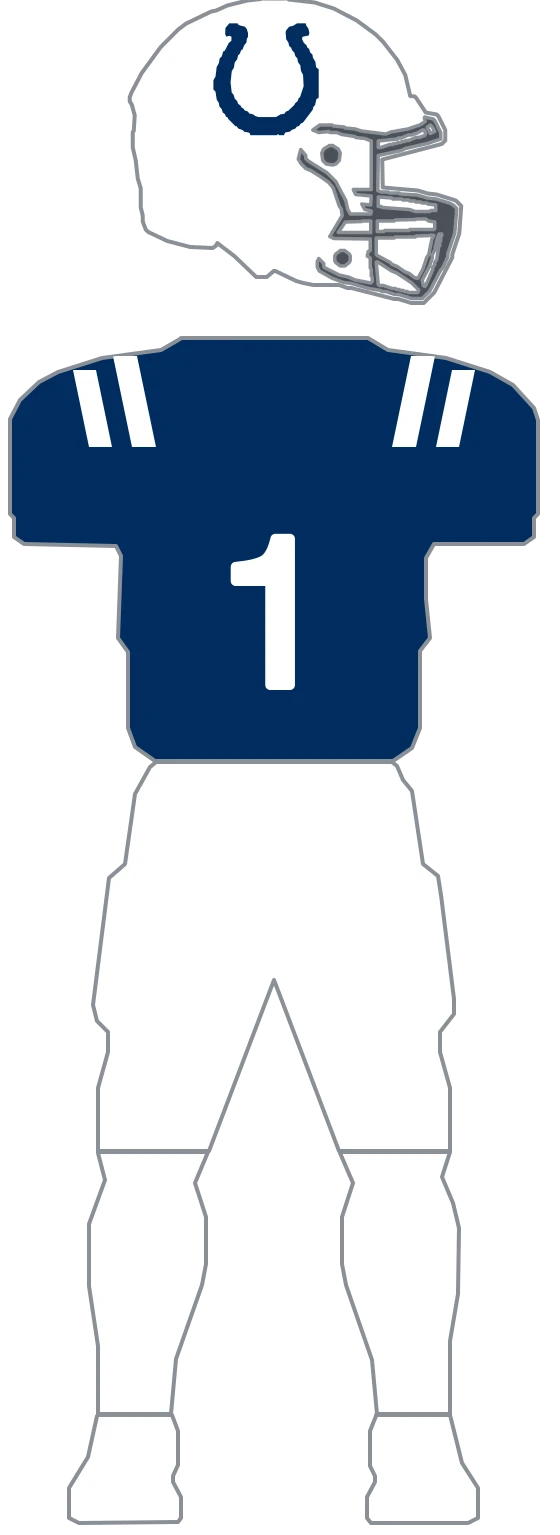
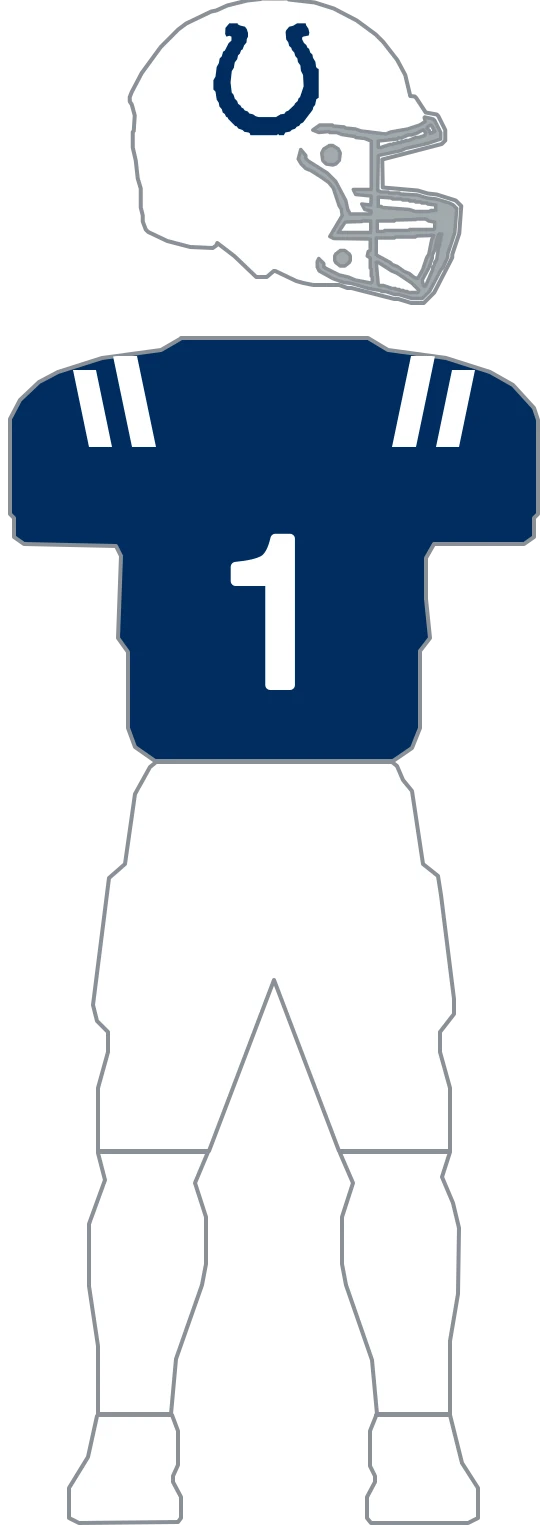
feat(uniforms): migrate Colts to composable parts and set its speedway-grey facemask
Both Indy kits wear the same white shell (with the navy horseshoe decal) and
the same white pants; only the jersey differs — a navy body at home vs a white
body away, with the two canted shoulder bars per sleeve and the numerals
matching the body's contrast. The flat form put the shared shell/pants in
`defaults` and reached the same painted result through inverse tokens on the
horseshoe (primary at home, secondary away). Parts make each kit a
combination: 1 helmet (H1 white shell + navy horseshoe), 2 jerseys (J1 navy,
J2 white), 1 pants (P1 white), matching the measured target.

The migration's parity gate proved all 6 colts rasters (2 kits x 2 variants)
byte-identical against the flat definition, then the flat definition and its
builder helpers were deleted and the team removed from MIGRATED, per the
one-time-proof lifecycle (depth#660).

Facemask follows the parts migration per phase order: the 2020 helmet update
wears a "light gray facemask" (named sources; the white shell + light cage is
low-contrast in the GUD composite, which reads the bars at ~#868686). Set to
the team's own speedway grey #A2AAAD from the curated home row — closer to the
real cage than the shared neutral #4b5158 it replaces. Only the two -full
rasters move, and the change is confined to the helmet region (verified
pixel-diffed).

diff --git a/lib/uniforms/teams/colts.ts b/lib/uniforms/teams/colts.ts
@@ -1,15 +1,7 @@
-import type { ColorRef, TeamUniformDefinition, UniformLayer, UniformSurface } from './types';
-
-// Indianapolis' two archived kits, redrawn from the Gridiron Uniform Database 2025 composite in
-// nfl-uniform-refs/colts (home is that sheet's row-1 figure 3, away its row-2 figure 1; the black
-// alternate and the preseason kit in that composite are not in depth's archive). Shoulder paths
-// use the outer 588-wide mannequin space; the helmet decal stays in raw helmet coordinates
-// (x:139-802, y:65-674). Right paths mirror the left across the centerline x=294 (588 - x).
-//
-// The construction is spare: a bare white shell carrying only the horseshoe, two canted shoulder
-// bars per sleeve, and plain numerals. No helmet stripe, no collar trim, and no pant stripe — the
-// reference's white pants are unbroken from hip to sock — so both kits strip most of the generic
-// model rather than recoloring it.
+// Indianapolis' construction geometry — the horseshoe decal and the shoulder-bar constants only.
+// The composable parts definition that consumes them lives in ./colts.parts.ts; the former flat
+// COLTS_UNIFORMS was deleted in the migration that proved parts render byte-identically (see
+// parts-parity.test.ts for the one-time gate).
 
 // White is a literal on both kits. The home palette is navy over speedway grey with accent ===
 // secondary (ESPN supplies only two colors), so no token resolves to the shell, the pants, the
@@ -34,79 +26,3 @@ export const COLTS_SHOULDER_BAR_INNER_LEFT = 'M133,401 L157,401 L176,492 L152,49
 export const COLTS_SHOULDER_BAR_INNER_RIGHT = 'M455,401 L431,401 L412,492 L436,492 Z';
 export const COLTS_SHOULDER_BAR_OUTER_LEFT = 'M93,415 L116,415 L132,492 L109,492 Z';
 export const COLTS_SHOULDER_BAR_OUTER_RIGHT = 'M495,415 L472,415 L456,492 L479,492 Z';
-
-const GENERIC_STRIPPED = [
-  'generic-helmet-stripe',
-  'generic-sleeve-yoke-left',
-  'generic-sleeve-yoke-right',
-  'generic-sleeve-stripe-left',
-  'generic-sleeve-stripe-right',
-  'generic-collar',
-  'generic-pants-stripe-left',
-  'generic-pants-stripe-right',
-];
-
-function shoulderBars(fill: ColorRef): UniformLayer[] {
-  const bars: { id: string; surface: UniformSurface; d: string }[] = [
-    {
-      id: 'colts-shoulder-bar-inner-left',
-      surface: 'sleeve-left',
-      d: COLTS_SHOULDER_BAR_INNER_LEFT,
-    },
-    {
-      id: 'colts-shoulder-bar-inner-right',
-      surface: 'sleeve-right',
-      d: COLTS_SHOULDER_BAR_INNER_RIGHT,
-    },
-    {
-      id: 'colts-shoulder-bar-outer-left',
-      surface: 'sleeve-left',
-      d: COLTS_SHOULDER_BAR_OUTER_LEFT,
-    },
-    {
-      id: 'colts-shoulder-bar-outer-right',
-      surface: 'sleeve-right',
-      d: COLTS_SHOULDER_BAR_OUTER_RIGHT,
-    },
-  ];
-  return bars.map((bar): UniformLayer => ({ ...bar, clip: true, kind: 'fill', fill }));
-}
-
-function horseshoe(fill: ColorRef): UniformLayer[] {
-  return [
-    {
-      id: 'colts-helmet-horseshoe',
-      surface: 'helmet',
-      d: COLTS_DECAL_HORSESHOE_PATH,
-      clip: true,
-      kind: 'fill',
-      fill,
-      fillRule: 'evenodd',
-    },
-  ];
-}
-
-export const COLTS_UNIFORMS: TeamUniformDefinition = {
-  teamId: 'colts',
-  // Both kits share the white shell and white pants; only the body color and which token carries
-  // navy differ, so the shell/pants live in defaults rather than being restated per kit.
-  defaults: {
-    helmetColor: COLTS_WHITE,
-    pantsColor: COLTS_WHITE,
-    removeLayerIds: GENERIC_STRIPPED,
-  },
-  kits: {
-    // Royal body: the palette's own primary is the navy, so the horseshoe resolves from `primary`
-    // and the bars and numerals take the white literal.
-    home: {
-      layers: [...horseshoe('primary'), ...shoulderBars(COLTS_WHITE)],
-      number: { fill: COLTS_WHITE, outline: COLTS_WHITE, outlineWidth: 10 },
-    },
-    // White body: the away palette moves white into primary and navy into secondary, so the same
-    // painted result needs the inverse token on every navy element.
-    away: {
-      layers: [...horseshoe('secondary'), ...shoulderBars('secondary')],
-      number: { fill: 'secondary', outline: 'secondary', outlineWidth: 10 },
-    },
-  },
-};

diff --git a/lib/uniforms/teams/colts.parts.ts b/lib/uniforms/teams/colts.parts.ts
@@ -1,0 +1,103 @@
+// Indianapolis authored as composable parts. Geometry is imported unchanged from colts.ts — this
+// file only restates WHICH parts each kit combines, and names every color from the team palette
+// instead of the kit row's shifting primary/secondary/accent.
+//
+// What the flat definition was hiding: both Colts kits wear the SAME white shell with the navy
+// horseshoe decal, and the SAME white pants. The flat form put the shell and pants in `defaults`
+// and reached the same painted result through inverse tokens on home (horseshoe = primary) vs
+// away (horseshoe = secondary). Only the jersey actually differs: a navy body at home vs a white
+// body away, with the four shoulder bars (2 per sleeve) and the numerals matching the body's
+// contrast.
+
+import {
+  COLTS_DECAL_HORSESHOE_PATH,
+  COLTS_SHOULDER_BAR_INNER_LEFT,
+  COLTS_SHOULDER_BAR_INNER_RIGHT,
+  COLTS_SHOULDER_BAR_OUTER_LEFT,
+  COLTS_SHOULDER_BAR_OUTER_RIGHT,
+} from './colts';
+import { compileParts, type PartLayer, type TeamPartsDefinition, type UniformPart } from './parts';
+import type { UniformSurface } from './types';
+
+const fill = (id: string, surface: UniformSurface, d: string, color: string): PartLayer => ({
+  id,
+  surface,
+  d,
+  clip: true,
+  kind: 'fill',
+  fill: color,
+});
+
+// Two canted bars per sleeve, mirrored. Same painting in both kits; only the color differs,
+// which the jersey part supplies.
+function shoulderBars(color: string): PartLayer[] {
+  return [
+    fill('colts-shoulder-bar-inner-left', 'sleeve-left', COLTS_SHOULDER_BAR_INNER_LEFT, color),
+    fill('colts-shoulder-bar-inner-right', 'sleeve-right', COLTS_SHOULDER_BAR_INNER_RIGHT, color),
+    fill('colts-shoulder-bar-outer-left', 'sleeve-left', COLTS_SHOULDER_BAR_OUTER_LEFT, color),
+    fill('colts-shoulder-bar-outer-right', 'sleeve-right', COLTS_SHOULDER_BAR_OUTER_RIGHT, color),
+  ];
+}
+
+// The white shell with the navy horseshoe decal — one object, shared by both kits. The horseshoe
+// is a closed band requiring evenodd so the tiny enclosed counter punches through.
+//
+// Speedway-grey cage. The 2020 helmet update carries a "light gray facemask" (Riddell/sports
+// sources; the white shell + light cage is low-contrast in the GUD composite, which reads the
+// bars at ~#868686 on both figures). #A2AAAD is the team's own speedway grey from the curated
+// home row — closer to the real light cage than the shared neutral #4b5158 it replaces.
+const HELMET_WHITE_HORSESHOE: UniformPart = {
+  base: 'white',
+  facemask: 'speedwayGrey',
+  layers: [
+    {
+      id: 'colts-helmet-horseshoe',
+      surface: 'helmet',
+      d: COLTS_DECAL_HORSESHOE_PATH,
+      clip: true,
+      kind: 'fill',
+      fill: 'navy',
+      fillRule: 'evenodd',
+    },
+  ],
+};
+
+// Home jersey: navy body, white shoulder bars, white numerals.
+const JERSEY_NAVY: UniformPart = {
+  base: 'navy',
+  layers: shoulderBars('white'),
+  number: { fill: 'white', outline: 'white', outlineWidth: 10 },
+};
+
+// Away jersey: white body, navy shoulder bars, navy numerals.
+const JERSEY_WHITE: UniformPart = {
+  base: 'white',
+  layers: shoulderBars('navy'),
+  number: { fill: 'navy', outline: 'navy', outlineWidth: 10 },
+};
+
+// Plain white pants, shared by both kits.
+const PANTS_WHITE: UniformPart = { base: 'white', layers: [] };
+
+export const COLTS_PARTS: TeamPartsDefinition = {
+  teamId: 'colts',
+  // Jersey hexes from the curated rows (teamcolorcodes): royal navy + speedway grey, the three
+  // colors the two rows already carry across their primary/secondary/accent slots.
+  palette: {
+    navy: '#002C5F',
+    white: '#FFFFFF',
+    speedwayGrey: '#A2AAAD',
+  },
+  helmets: { 'white-horseshoe': HELMET_WHITE_HORSESHOE },
+  jerseys: {
+    navy: JERSEY_NAVY,
+    white: JERSEY_WHITE,
+  },
+  pants: { white: PANTS_WHITE },
+  kits: {
+    home: { helmet: 'white-horseshoe', jersey: 'navy', pants: 'white' },
+    away: { helmet: 'white-horseshoe', jersey: 'white', pants: 'white' },
+  },
+};
+
+export const COLTS_UNIFORMS_FROM_PARTS = compileParts(COLTS_PARTS);

diff --git a/lib/uniforms/teams/index.ts b/lib/uniforms/teams/index.ts
@@ -8,7 +8,7 @@ import { BUCCANEERS_UNIFORMS } from './buccaneers';
 import { CARDINALS_UNIFORMS } from './cardinals';
 import { CHARGERS_UNIFORMS } from './chargers';
 import { CHIEFS_UNIFORMS_FROM_PARTS } from './chiefs.parts';
-import { COLTS_UNIFORMS } from './colts';
+import { COLTS_UNIFORMS_FROM_PARTS } from './colts.parts';
 import { COMMANDERS_UNIFORMS } from './commanders';
 import { COWBOYS_UNIFORMS } from './cowboys';
 import { DOLPHINS_UNIFORMS } from './dolphins';
@@ -46,8 +46,8 @@ const DEFINITIONS: Readonly<Partial<Record<string, TeamUniformDefinition>>> = {
   buccaneers: BUCCANEERS_UNIFORMS,
   cardinals: CARDINALS_UNIFORMS,
   chargers: CHARGERS_UNIFORMS,
-  chiefs: CHIEFS_UNIFORMS_FROM_PARTS,
-  colts: COLTS_UNIFORMS,
+chiefs: CHIEFS_UNIFORMS_FROM_PARTS,
+  colts: COLTS_UNIFORMS_FROM_PARTS,
   commanders: COMMANDERS_UNIFORMS,
   cowboys: COWBOYS_UNIFORMS,
   dolphins: DOLPHINS_UNIFORMS,
